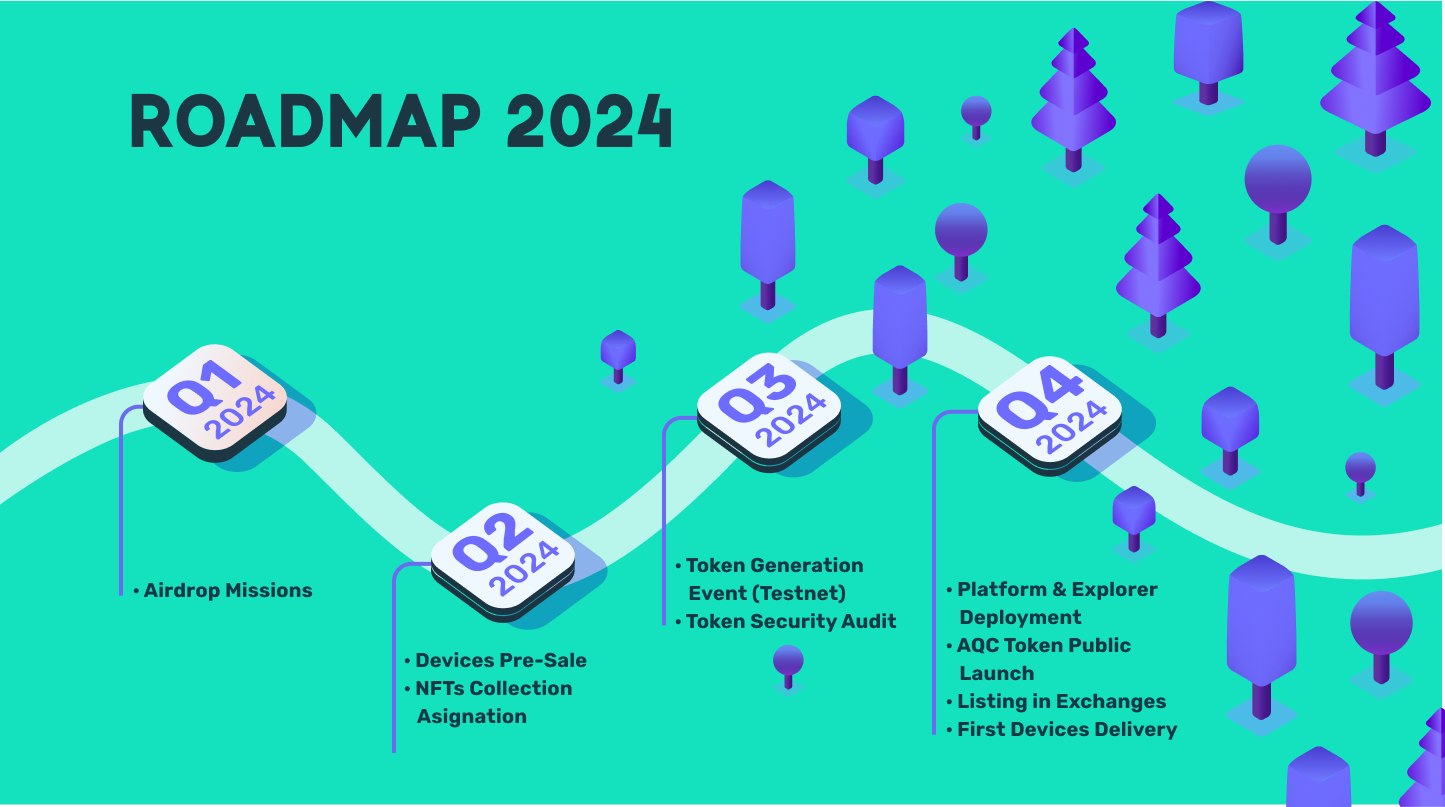
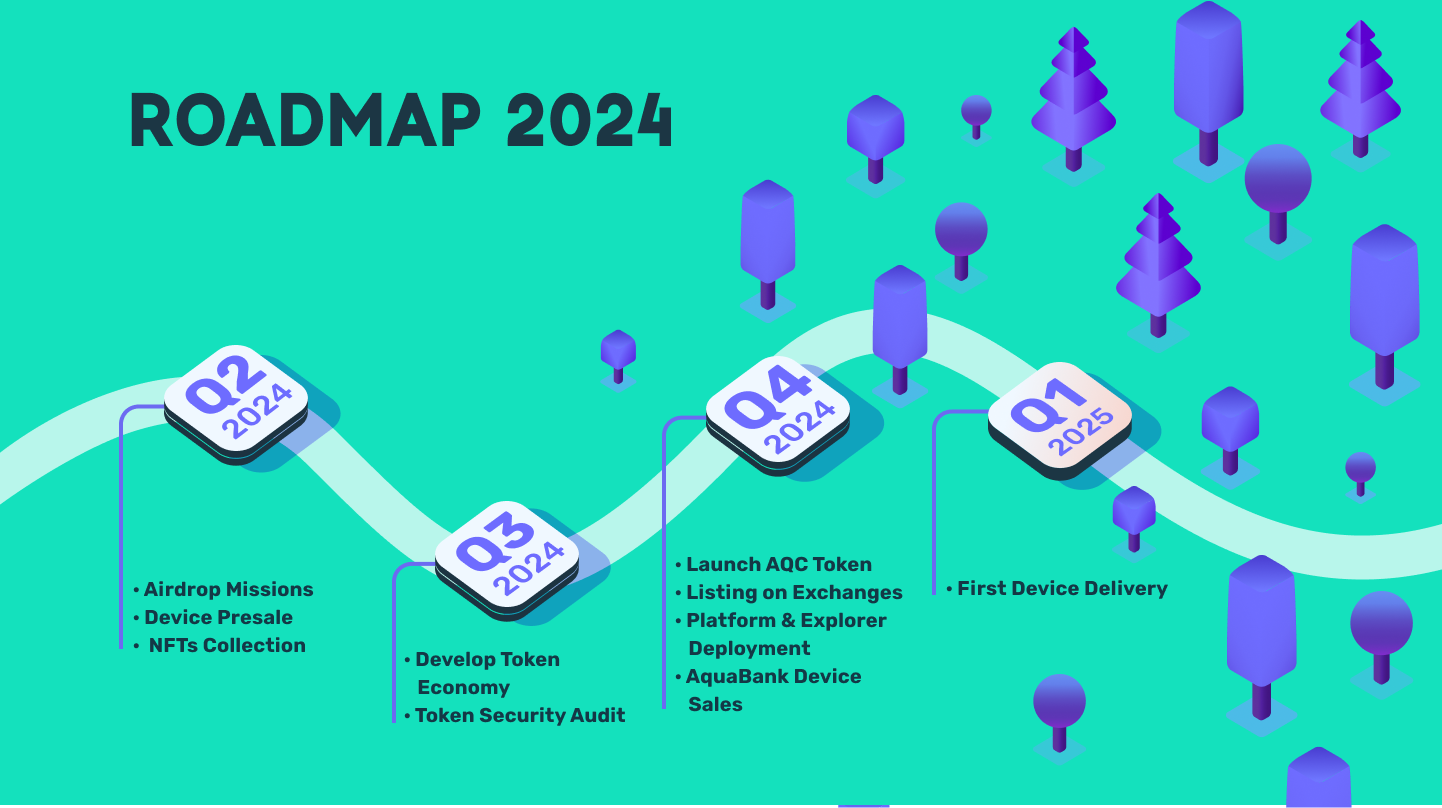
Update roadmap + install instructions

diff --git a/AquasaveDocs/docs/aquabank-revolution-depin/aquabank/compatibility.md b/AquasaveDocs/docs/aquabank-revolution-depin/aquabank/compatibility.md
@@ -7,6 +7,8 @@ sidebar_position: 3
 
 **Dear Customer:** Before purchasing your AquaBank Saver, it is essential that you read this compatibility documentation and instructions to ensure the correct operation as soon as you receive the AquaBank Saver.
 
+![peripheric](/img/aquabank/installation-guide.png)
+
 ## Compatibility with Your Water Heating System
 
 AquaBank Saver **is compatible** with the following individual water heating systems:
